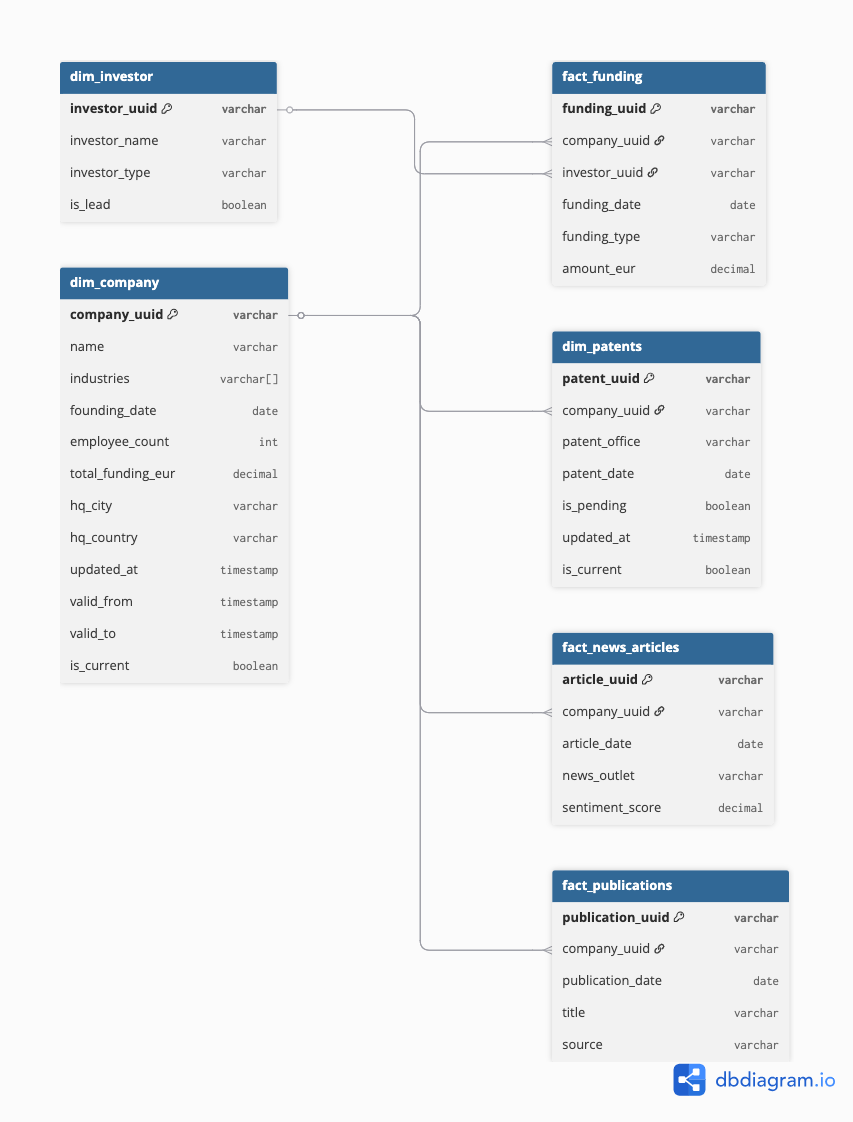
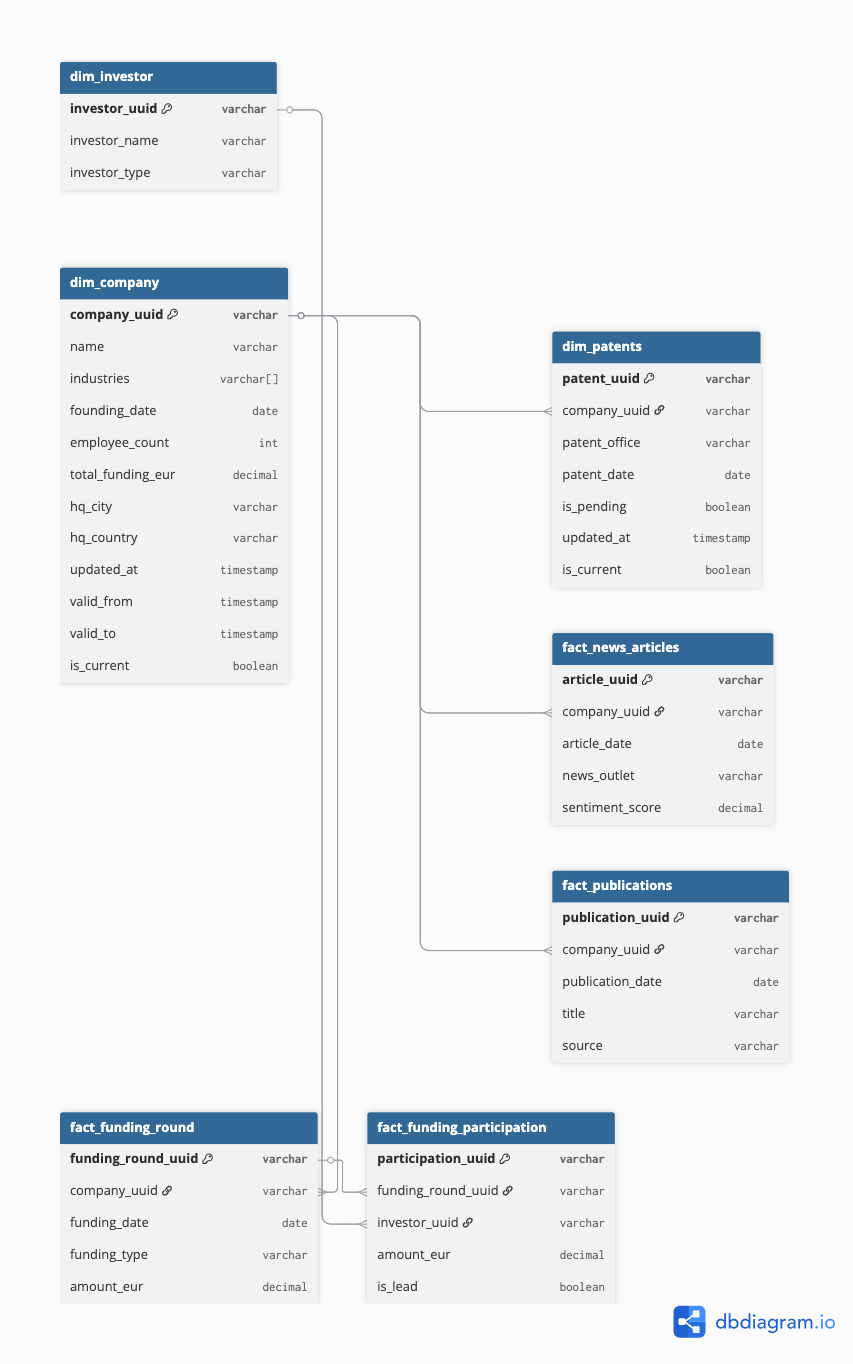
refactor: split fact_funding into round + participation tables
Separates funding data into fact_funding_round (round-level) and
fact_funding_participation (investor-level) to preserve the concept
of a funding round as a single event with multiple investors.

diff --git a/task-2-design/design-doc.md b/task-2-design/design-doc.md
@@ -51,19 +51,27 @@ Based on the sample data, I would create the following tables:
 | valid_to | timestamp | When superseded (NULL if current) |
 | is_current | boolean | TRUE for latest version |
 
-### Table 2: fact_funding
+### Table 2: fact_funding_round
 
 | Column | Type | Description |
 |--------|------|-------------|
-| funding_uuid | varchar | Primary key |
+| funding_round_uuid | varchar | Primary key |
 | company_uuid | varchar | FK → dim_company |
-| investor_uuid | varchar | FK → dim_investor |
 | funding_date | date | Round date |
 | funding_type | varchar | seed, series-a, series-b, etc. |
-| amount_eur | decimal | Amount raised |
+| amount_eur | decimal | Total amount raised in round |
+
+### Table 3: fact_funding_participation
+
+| Column | Type | Description |
+|--------|------|-------------|
+| participation_uuid | varchar | Primary key |
+| funding_round_uuid | varchar | FK → fact_funding_round |
+| investor_uuid | varchar | FK → dim_investor |
+| amount_eur | decimal | This investor's contribution (if known) |
 | is_lead | boolean | Lead investor in this round |
 
-### Table 3: dim_investor
+### Table 4: dim_investor
 
 | Column | Type | Description |
 |--------|------|-------------|
@@ -75,12 +83,13 @@ Based on the sample data, I would create the following tables:
 
 ## How would you handle the nested arrays (funding_rounds, investors)?
 
-For ease of querying, there should be a separate table for company data, funding data, and investor data.
+For ease of querying, there should be separate tables for company data, funding rounds, investor participation, and investor data.
 
+- For funding rounds: create a `funding_round_uuid` to uniquely identify each round, linked to the company
 - For investors: create an `investor_uuid` to uniquely identify each investor
-- For funding data: create a `funding_uuid`, but also include the `company_uuid` and `investor_uuid` as foreign keys
+- For participation: create a junction table `fact_funding_participation` linking rounds to investors
 
-This way, a single funding round with multiple investors becomes multiple rows in `fact_funding`—one per investor. This allows queries like "all rounds where Peak Capital participated."
+This way, a single funding round with multiple investors has one row in `fact_funding_round` and multiple rows in `fact_funding_participation`—one per investor. This allows queries like "all rounds where Peak Capital participated" while preserving the concept of a round as a single event.
 
 ---
 
@@ -143,6 +152,7 @@ For patents, scientific publications, and news articles, I would create dedicate
 | Decision | Alternative | Why I Chose This |
 |----------|-------------|------------------|
 | Separate `dim_investor` table | Keep investors as JSON array | Enables "all deals by Investor X" queries |
+| Separate `fact_funding_round` + `fact_funding_participation` | Single denormalized funding table | Preserves the concept of a "round" as a single event; cleaner queries for round counts |
 | No `dim_date` table | Traditional date dimension | Modern warehouses handle date functions natively |
 | SCD Type 2 for companies | Overwrite with latest data | Need to track how companies change over time |
 | Separate tables per data source | Generic catch-all table | Each source has unique attributes (patents have `is_pending`, news has `sentiment_score`) |
@@ -177,12 +187,18 @@ Table dim_investor {
   investor_type varchar
 }
 
-Table fact_funding {
-  funding_uuid varchar [pk]
+Table fact_funding_round {
+  funding_round_uuid varchar [pk]
   company_uuid varchar [ref: > dim_company.company_uuid]
-  investor_uuid varchar [ref: > dim_investor.investor_uuid]
   funding_date date
   funding_type varchar
+  amount_eur decimal
+}
+
+Table fact_funding_participation {
+  participation_uuid varchar [pk]
+  funding_round_uuid varchar [ref: > fact_funding_round.funding_round_uuid]
+  investor_uuid varchar [ref: > dim_investor.investor_uuid]
   amount_eur decimal
   is_lead boolean
 }
